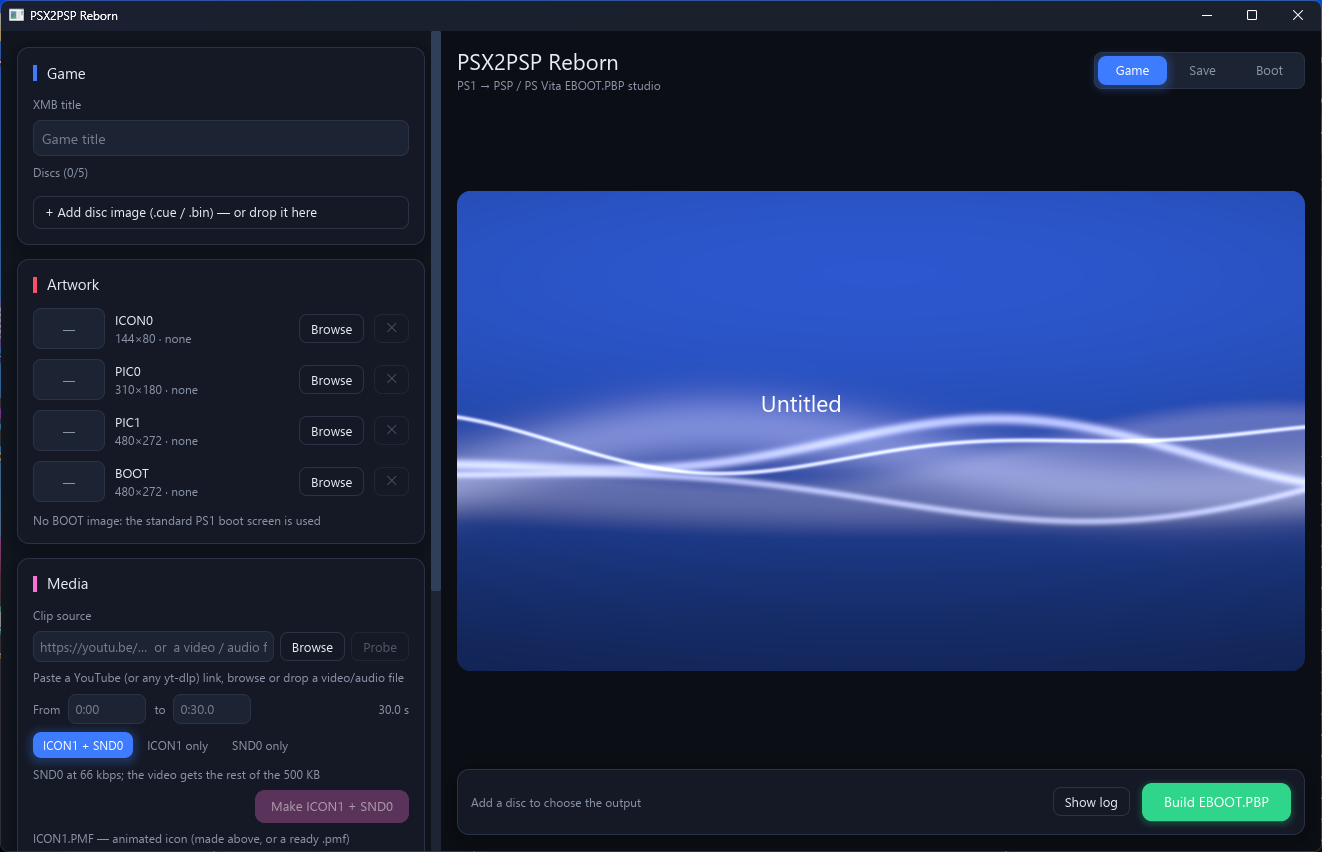
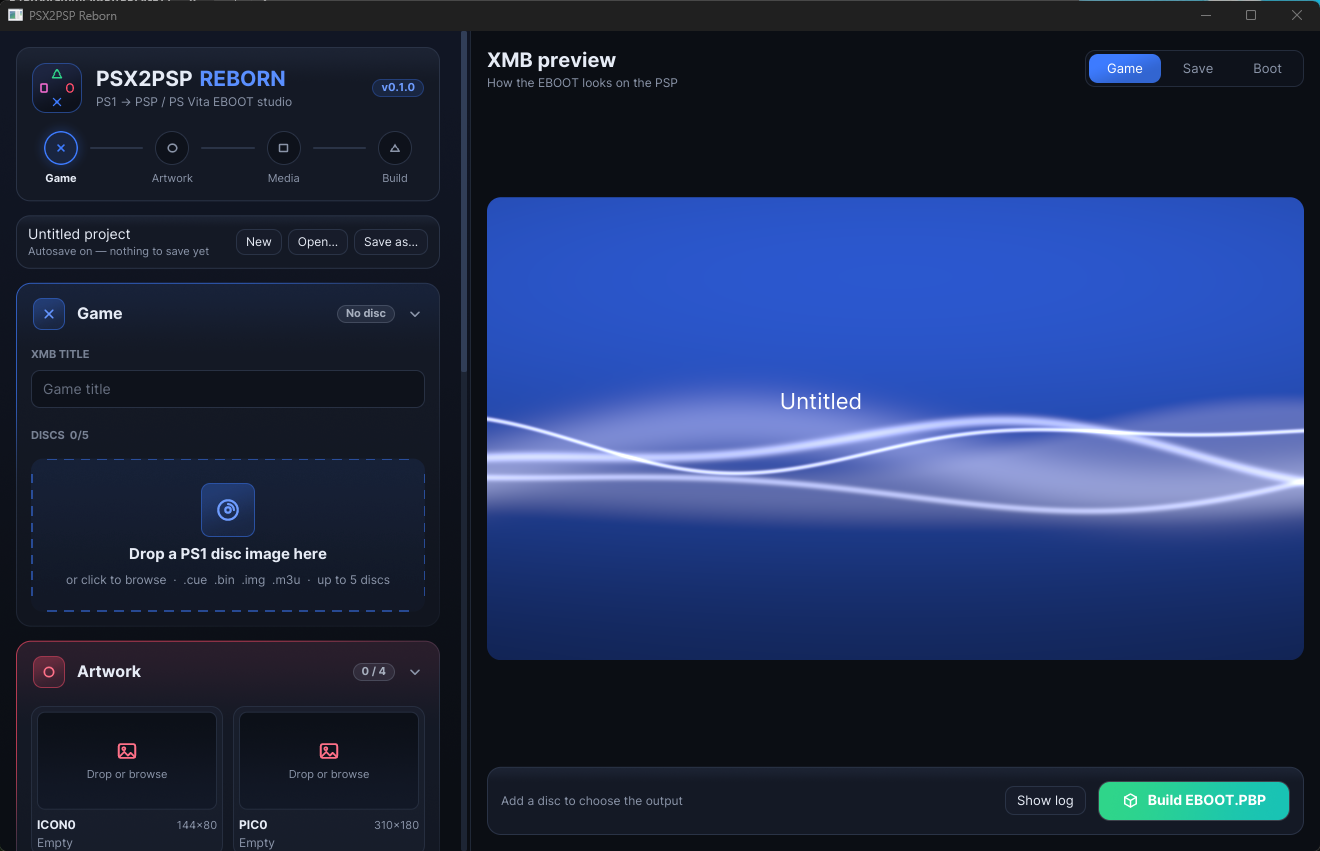
app: one version chip in the brand header that checks for updates; README screenshot and feature notes refreshed

diff --git a/crates/psx2psp-app/src/style.rs b/crates/psx2psp-app/src/style.rs
@@ -147,6 +147,24 @@ pub fn chip(accent: Color) -> impl Fn(&Theme) -> container::Style {
     }
 }
 
+/// A `chip` that can be pressed: same pill, brighter and glowing on hover.
+pub fn chip_button(accent: Color) -> impl Fn(&Theme, button::Status) -> button::Style {
+    move |_, status| {
+        let (fill, stroke, shadow) = match status {
+            button::Status::Active | button::Status::Disabled => (0.13, 0.38, Shadow::default()),
+            button::Status::Hovered => (0.24, 0.80, glow(accent, 0.35, 10.0, 0.0)),
+            button::Status::Pressed => (0.34, 1.0, Shadow::default()),
+        };
+        button::Style {
+            background: Some(Background::Color(alpha(accent, fill))),
+            text_color: lighten(accent, 0.25),
+            border: Border { color: alpha(accent, stroke), width: 1.0, radius: 999.0.into() },
+            shadow,
+            snap: true,
+        }
+    }
+}
+
 /// Progress-tracker node: done (filled, glowing), current (outlined) or pending (dim).
 pub fn step(accent: Color, done: bool, current: bool) -> impl Fn(&Theme) -> container::Style {
     move |_| {

diff --git a/crates/psx2psp-app/src/updater.rs b/crates/psx2psp-app/src/updater.rs
@@ -345,10 +345,11 @@ impl Updater {
         Some(container(body).padding(12).width(Fill).style(style::toast(accent)).into())
     }
 
-    /// Version chip for the header; clicking it checks for updates.
+    /// Version chip for the brand header; clicking it checks for updates.
     pub fn version_button(&self) -> Element<'_, Msg> {
         let idle = !matches!(self.state, State::Checking | State::Downloading { .. } | State::Ready { .. });
-        let chip = button(text(format!("v{CURRENT}")).size(12)).padding([5, 10]).style(style::ghost).on_press_maybe(idle.then_some(Msg::CheckNow));
+        let label = text(format!("v{CURRENT}")).size(11).font(style::BOLD).wrapping(text::Wrapping::None);
+        let chip = button(label).padding([2, 9]).style(style::chip_button(style::BLUE)).on_press_maybe(idle.then_some(Msg::CheckNow));
         let bubble = container(text("Check for updates").size(12)).padding([6, 10]).style(style::toast(style::BLUE));
         tooltip(chip, bubble, tooltip::Position::Bottom).gap(6).into()
     }

diff --git a/crates/psx2psp-app/src/main.rs b/crates/psx2psp-app/src/main.rs
@@ -1440,7 +1440,7 @@ impl App {
             label("PS1 → PSP / PS Vita EBOOT studio"),
         ]
         .spacing(2);
-        let top = row![logo, name, space().width(Fill), chip(concat!("v", env!("CARGO_PKG_VERSION")), style::BLUE)].spacing(14).align_y(Alignment::Center);
+        let top = row![logo, name, space().width(Fill), self.updater.version_button().map(Message::Update)].spacing(14).align_y(Alignment::Center);
 
         let done = self.steps();
         let current = done.iter().position(|d| !d);
@@ -1954,7 +1954,6 @@ impl App {
                     .style(style::tab(!self.muted))
                     .on_press(Message::ToggleMute)
             }),
-            self.updater.version_button().map(Message::Update),
             container(tabs).padding(4).style(style::well),
         ]
         .align_y(Alignment::Center)

diff --git a/README.md b/README.md
@@ -34,7 +34,7 @@
 ---
 
 <p align="center">
-  <img src="docs/assets/screenshot.png" alt="PSX2PSP-Reborn: the Game, Artwork and Media cards on the left, the live XMB preview with its animated wave on the right" width="100%">
+  <img src="docs/assets/screenshot.png" alt="PSX2PSP-Reborn: brand header with the Game, Artwork, Media and Build step tracker, the project bar and the section cards on the left, the live XMB preview with its animated wave on the right" width="100%">
 </p>
 
 ## ⚡ What is this?
@@ -153,10 +153,13 @@ Paste a YouTube link (or any URL yt-dlp understands), or pick a local video or a
   (atracdenc or Sony's at3tool). **Install missing** in the GUI, or `psx2psp tools install`,
   downloads the official release binaries into `<exe folder>/tools/`, with the size shown first.
   None of them are needed to build a plain EBOOT.
-- **Projects with save slots and autosave.** Your work, including the clips you made from
-  YouTube, survives a crash or closing the window.
-- **Built-in updater.** The app finds new versions on GitHub Releases and updates its single
-  executable in place.
+- **Projects with save slots and autosave.** Everything is autosaved as you work, including the
+  ICON1/SND0 you made from YouTube, and comes back on the next start, after a crash or an
+  accidental close, with an **Undo** toast if you wanted a clean slate. **Save as…** keeps named
+  projects (`projects/<name>/`, media included) that **Open…** brings back at any time.
+- **Built-in updater.** The app checks GitHub Releases, verifies the download against
+  `SHA256SUMS.txt` and swaps its own executable in place, rolling back if anything fails. Click
+  the version chip to check by hand; from the CLI, `psx2psp update` (or `update --check`).
 
 ## 🩹 The patch database
 
